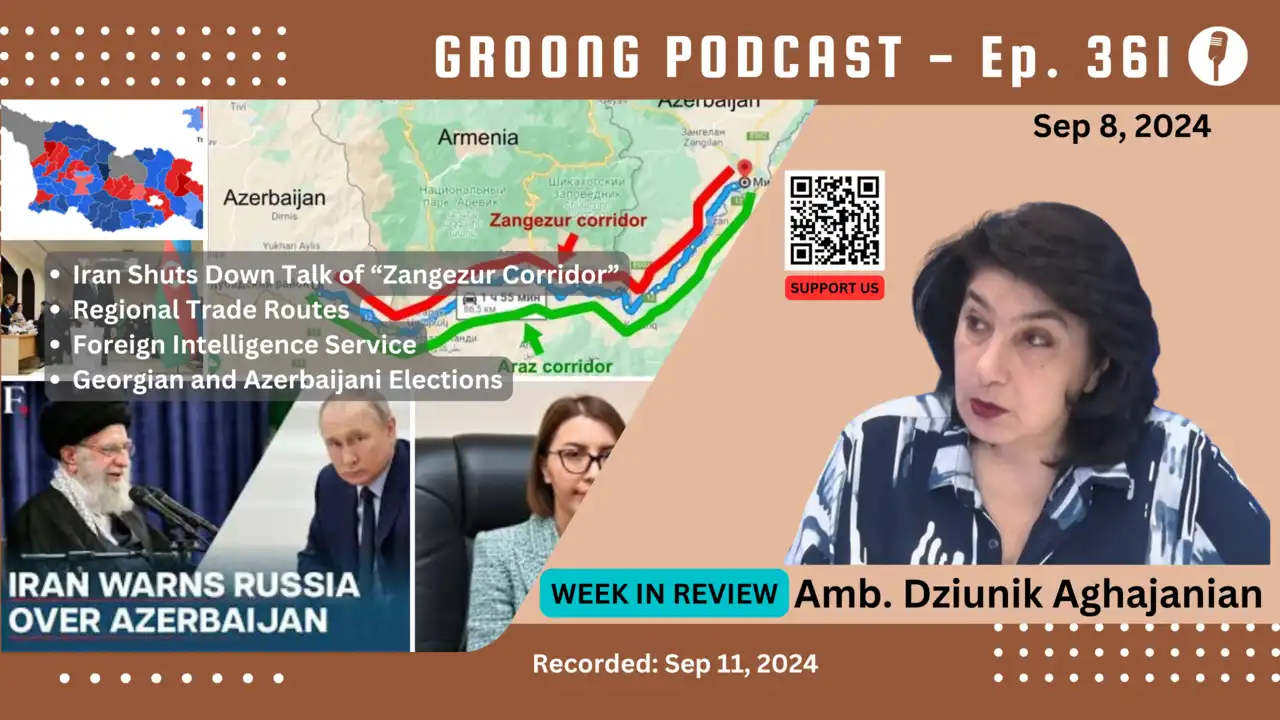
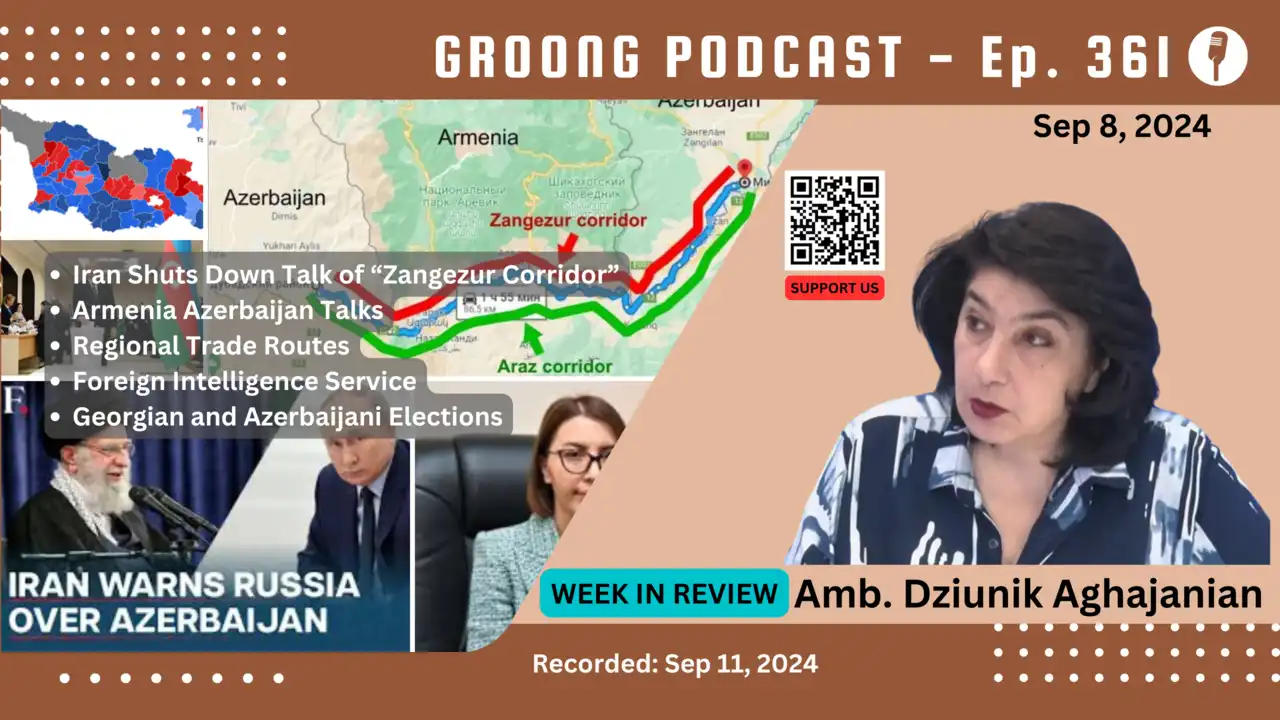
Ep 361

Changed region(s): [[0.0312, 0.3972, 0.4062, 0.6111]]

diff --git a/content/episode/361-dziunik-aghajanian-iran-shuts-zangezur-corridor-talk-trade-routes-accountability-in-foreign-intel-service-georgia-azerbaijan-elections.md b/content/episode/361-dziunik-aghajanian-iran-shuts-zangezur-corridor-talk-trade-routes-accountability-in-foreign-intel-service-georgia-azerbaijan-elections.md
@@ -1,15 +1,14 @@
 +++
 
 Date = 2024-09-12T01:00:00+04:00
-upcoming = true
 
 title = "Dziunik Aghajanian - Iran Shuts Down Talk of Zangezur Corridor, Regional Trade Routes, Accountability and the Foreign Intelligence Service, Georgian and Azerbaijani Elections | Ep 361 - Sep 8, 2024"
 subtitle = "Week in Review - 09/08/2024"
 
-podcast_file = ""
-podcast_bytes = ""
-podcast_duration = ""
-youtube = ""
+podcast_file = "15743590-iran-rejects-zangezur-corridor-armenia-azerbaijan-talks-trade-intelligence-service-georgian-and-azerbaijani-elections-ep-361-sep-8-2024.mp3"
+podcast_bytes = "56033104"
+podcast_duration = "4666"
+youtube = "FT3qgIeP4WY"
 
 episode_image = "img/episode/361/thumbnail-361.webp"
 episode_banner = "img/episode/361/banner-361.webp"
@@ -23,7 +22,7 @@ explicit = "no"
 
 series = ["wir"]
 categories = ["Armenia", "Azerbaijan", "Borders"]
-tags = ["Armenian News", "Artsakh", "Nagorno Karabakh", "Dziunik Aghajanian", "Armenia", "Azerbaijan", "Georgia", "South Caucasus", "Turkey", "Russia", "Corridor", "Zangezur Corridor", "BRICS", "EU", "EAEU", "NATO", "NSS", "Foreign Intelligence Service", "Kristine Grigoryan", "Nikol Pashinyan", "Ilham Aliyev"]
+tags = ["Armenian News", "Artsakh", "Nagorno Karabakh", "Dziunik Aghajanian", "Armenia", "Azerbaijan", "Georgia", "South Caucasus", "Turkey", "Russia", "Corridor", "Zangezur Corridor", "BRICS", "EU", "EAEU", "NATO", "NSS", "Foreign Intelligence Service", "Kristine Grigoryan", "Nikol Pashinyan", "Ilham Aliyev", "Iran", "Syunik", "Western Security Companies", "Artsakh Refugees", "Geopolitics"]
 
 Description = """
 
@@ -37,9 +36,7 @@ Description = """
 #### Topics:
 * Iran Shuts Down Talk of “Zangezur Corridor”
 * Armenia Azerbaijan Talks
-* Regional Trade Routes
-    * Iran Armenia Trade
-    * BRICS
+* Iran Armenia Trade / BRICS
 * Foreign Intelligence Service
 * Georgian and Azerbaijani Elections
 
@@ -47,8 +44,97 @@ Episode 361 | Recorded: September 11, 2024"""
 
 +++
 
+# Topics This Week
+
+## Iran Shuts Down “Zangezur Corridor Dreams”
+
+### Iran Warns Russia to Back Off
+
+Following Putin’s visit to Baku a couple of weeks ago, Russia’s [rhetoric](https://asbarez.com/lavrov-accuses-yerevan-of-sabotaging-deal-to-open-transit-routes/) became very harsh about Armenia blocking transportation links through Syunik, which Azerbaijan and Turkey call the “Zangezur Corridor”. We also know that there is significant pressure from the West (whether it is the EU or the US) on Armenia and Azerbaijan to open up Armenia to Turkish-Azeri connectivity.
+
+Given Iran's previous stance, it came as no surprise when, last week, Iran [sent](https://www.azatutyun.am/a/33108409.html) a very clear message to Russia to back off from pressuring Armenia into compromising its sovereignty for a Turkish-Azeri corridor. The Iranian Foreign Minister went to the unusual step of summoning the Russian ambassador.
+
+**Questions**:
+
+* Why is Russia so motivated to have control over this corridor through Armenia? What’s in it for Russia?
+    * Has Russia promised Azerbaijan and Turkey a corridor to keep them as “neutral” as possible through its confrontations with the West?
+* Why does Iran perceive a Russian-controlled corridor or a western managed corridor as part of redrawing boundaries?
+    * Aren’t Iran and Russia allies in this case?
+
+The Pashinyan team has been touting this idea that private (undoubtedly “western”) security companies could be involved in some way. But there’s also confusion around this aspect. First there were reports that Pashinyan said that it’d be acceptable to have “[private security companies](https://armenpress.am/en/article/1199002)” “controlling” transportation links through Syunik. 
+
+But earlier on Monday, Ararat Mirzoyan [clarified](https://armenpress.am/en/article/1199369) that the private security company would only accompany passengers and cargo on trains and appeared to rule out any form of “control”.
+
+**Questions**:
+
+* What is the nature of this idea?
+    * What level of trust will be given to this company? What does “control” mean anyway?
+
+## Armenia Azerbaijan Talks
+
+Given all this wrangling over Armenia’s south, last week [Aliyev said](https://www.azadliq.org/a/ilham-eliyev-sulh-sazisi/33109432.html) that 80% of the so-called “peace agreement” with Armenia is agreed upon. He again repeated that changing the Armenian constitution as a demand is still not fulfilled.
+
+**Questions**:
+
+* We’ve talked a lot about the constitution topic. What else is up in the air?
+* Both countries say that around 13 out of 1000 kilometers of border have been delimited. What is the outlook on the demarcation business?
+
+In his press conference on August 31, Pashinyan said that raising the issue of the rights and security of the refugees from Artsakh [contradicts](https://armenpress.am/en/article/1198720) the national security of Armenia. In response, Artsakh president Samvel Shahramanyan [vowed](https://armenpress.am/en/article/1198781) to not jeopardize Armenia’s national security in his quest for a mass repatriation of Artsakhtsis back to their homeland.
+
+**Questions**:
+
+* What was this back and forth between Pashinyan and Shahramanyan all about?
+* Is Shahramanyan really working on the return, or rights and security of Artsakhtsis with Azerbaijan?
 
 
+## Trade
+
+### Iran - Armenia Trade
+
+Amidst all this national insecurity, Armenia and Iran are currently doing over $700 million of trade across their common border. Iran is doubling down on its investments in Armenia and [announced plans](https://bm.ge/en/news/iran-plans-to-expand-cooperation-with-armenia-by-3-billion) to invest $3 billion. Reportedly 400 trucks  travel between the two countries daily, so quadrupling that means 1600 trucks a day.
+
+**Questions**:
+
+* Is Armenia’s infrastructure capable of sustaining that kind of traffic, and is there work being done to improve the situation?
+* What is the main focus of Iran’s trade with Armenia? And is that trade WITH Armenia, or THROUGH Armenia?
+
+### BRICS
+
+The day after Putin’s visit to Baku Azerbaijan applied for membership in BRICS. Turkey is also interested and testing the waters with conflicting messages from various high level officials. Georgia has not applied but has struck up a strategic partnership with China and is building a major port on the Black Sea. Iran and Russia are members of BRICS. Armenia has not applied, but is clearly interested.
+
+**Questions**:
+
+
+
+* How is BRICS changing the geo-economics of the South Caucasus?
+* Is BRICS a competing organization and market vis-à-vis the EU, or is it a cooperative one? Can countries be members of the EU, as well as BRICS? 
+    * We’ve already heard that the EU thinks membership in the EAEU is ultimately incompatible with the EU, but perhaps that is for the time when Russia and the West are engaged in a zero-sum crisis in Ukraine.
+
+
+## Accountability and the Foreign Intelligence Service
+
+Armenia’s National Security Service, the NSS, which has sole jurisdiction over state secrets and who gets to see what, is slowly [being gutted](https://lansinginstitute.org/2024/08/29/armenia-expands-powers-of-foreign-intelligence-service-to-counteract-russian-subversive-activities/) by Pashinyan and his government. In 2022 it lost its major crime and corruption investigative unit to the so-called “Investigative Committee”, and its unit for protecting high ranking officials to a unit directly reporting to Pashinyan.
+
+Also in 2022, former ombudswoman Kristine Grigoryan was appointed as the head of the newly created Foreign Intelligence Service (FIS). Now Grigoryan and the FIS want to remove the NSS from its oversight of state secrets.
+
+**Questions:**
+
+* There is always a core issue to these seemingly bureaucratic and boring organizational shuffles. What is the deal with all these secret service shuffles?
+
+
+## Georgian and Azerbaijani Elections
+
+On October 26 Georgia will hold parliamentary elections. While Georgian Dream (GD) is leading the polls with 59% of the vote, the rhetoric and political temperature in the country is very high. There are even EU parliamentarians in the country warning the government to take down their “Foreign Agent” law, which they call “Putin’s Law”, and supporting the opposition. Germany has [warned](https://www.rferl.org/a/georgia-germany-eu-foreign-agents/33109987.html) that unless their demands are met Georgia’s EU accession processes will remain frozen. So this election is being [painted](https://www.rferl.org/a/salome-zurabishvili-parliamentary-election-october/33094630.html) as a pivot to the west or to the east.
+
+**Question**:
+
+* What’s at stake in Georgia and what’s at stake for Armenia, in these October Georgian parliamentary elections?
+
+Azerbaijan held parliamentary [elections](https://www.rferl.org/a/azerbaijan-elections-parliament/33102352.html) on September 1. They were roundly criticized by the west as being held in a “[restrictive political & legal environment, devoid of competition.](https://x.com/ExtSpoxEU/status/1830924004024099084)” Aliyev’s party and people won the day.
+
+**Question**:
+
+* Why was this so-called “election” even held? As a show, it just showed how undemocratic Azerbaijan is, as a classic petro-dictatorship. As a process, it doesn’t look like anything has changed in the country. So what was the purpose of it?
 
 # Wrap-up
 
